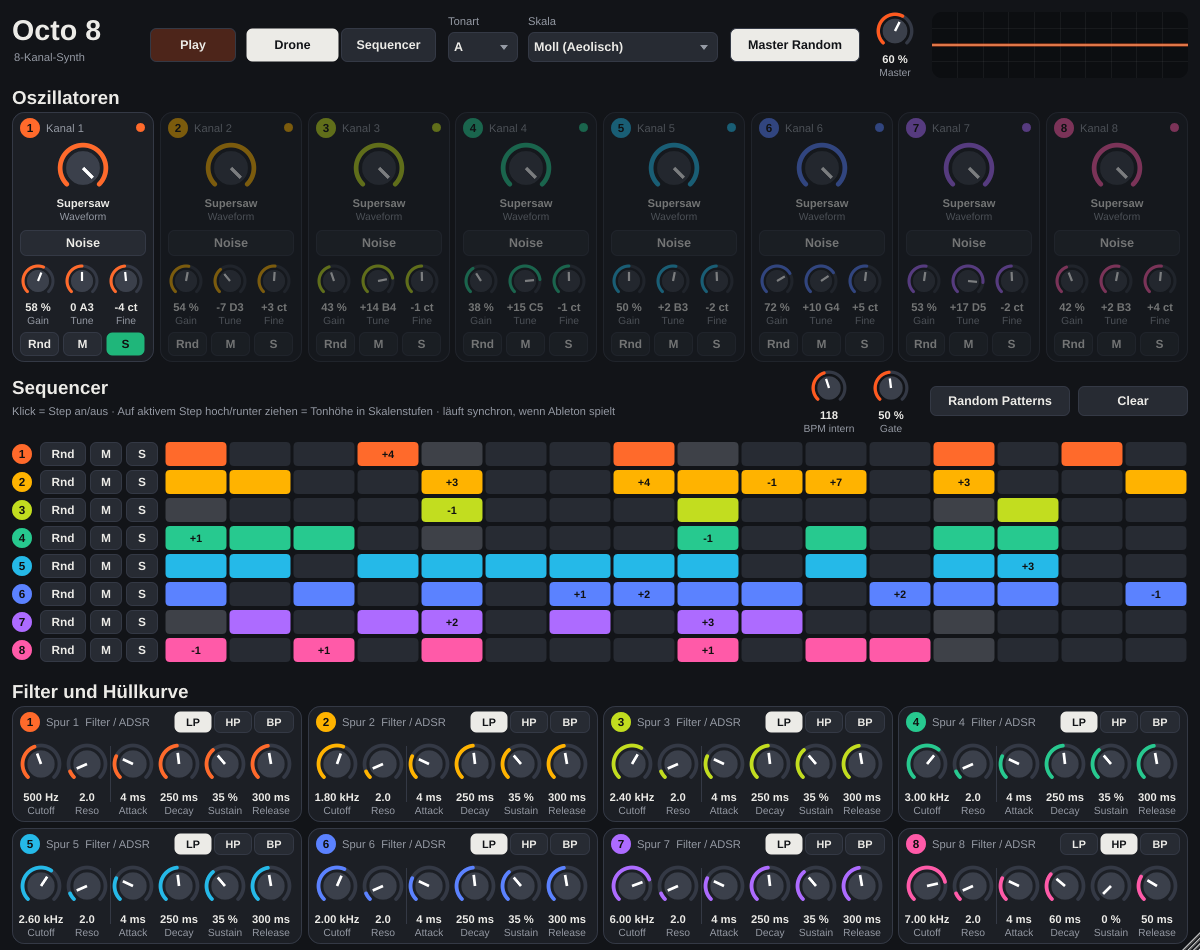
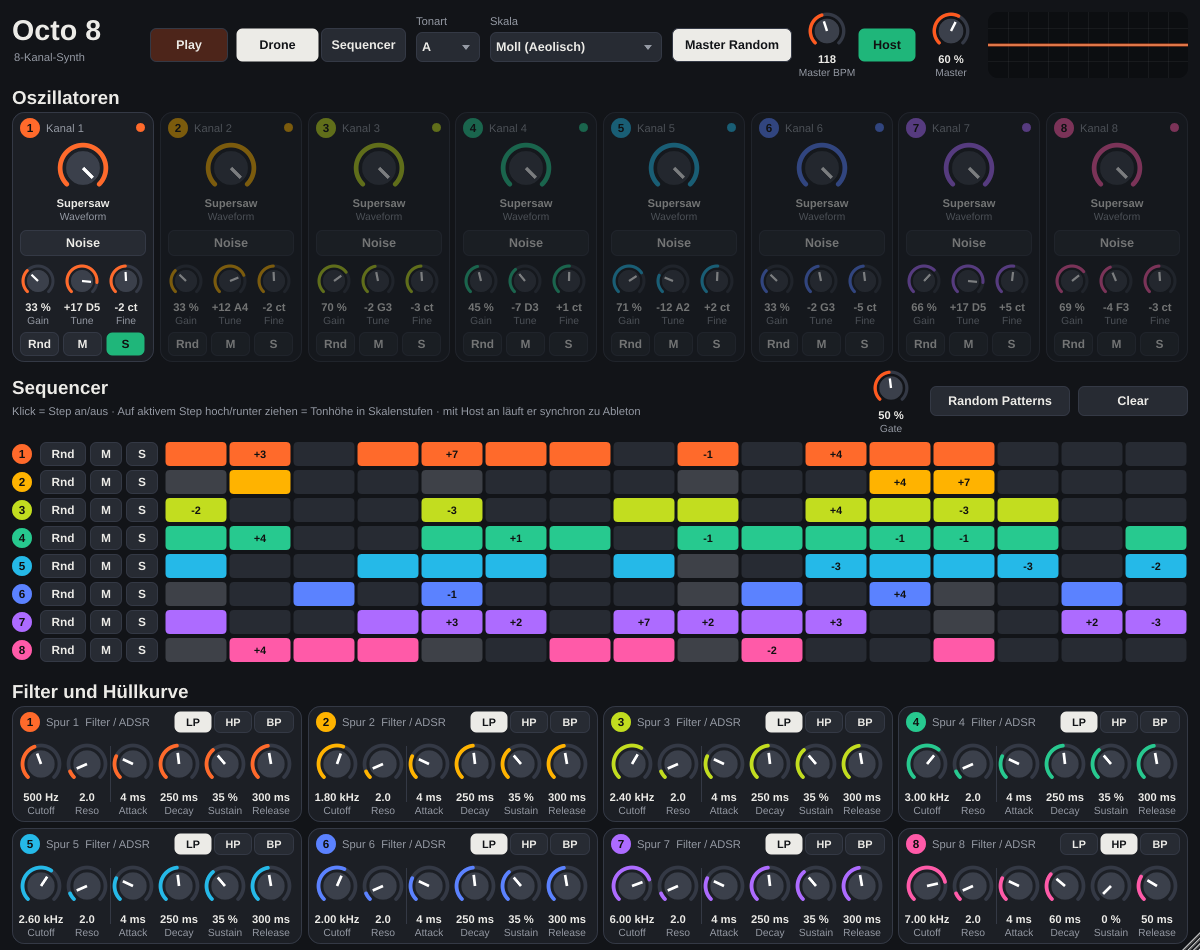
Octo8: Master BPM in top bar and Host sync button
- New "hostsync" parameter (default on): tempo and transport follow the DAW;
  off = internal Master BPM with the Play button
- Master BPM knob moved next to Master volume, shows host tempo while synced

Claude-Session: https://claude.ai/code/session_01QvYCYJsQt9R3oLBXYfwAHN

diff --git a/Octo8/Source/PluginEditor.cpp b/Octo8/Source/PluginEditor.cpp
@@ -118,7 +118,9 @@ void Knob::paint (Graphics& g)
     auto t = r.removeFromBottom (labelH);
     g.setColour (colours::ink);
     g.setFont (uiFont (12.5f, true));
-    g.drawFittedText (slider.getTextFromValue (slider.getValue()), t.removeFromTop (15), Justification::centred, 1, 0.8f);
+    String v = valueOverride ? valueOverride() : String();
+    if (v.isEmpty()) v = slider.getTextFromValue (slider.getValue());
+    g.drawFittedText (v, t.removeFromTop (15), Justification::centred, 1, 0.8f);
     g.setColour (colours::mute);
     g.setFont (uiFont (11.5f));
     g.drawFittedText (name, t, Justification::centredTop, 1, 0.8f);
@@ -392,8 +394,8 @@ void Octo8Editor::Content::paint (Graphics& g)
     g.setColour (colours::mute);
     g.setFont (uiFont (12.5f));
     g.drawText ("8-Kanal-Synth", 14, 48, 140, 18, Justification::centredLeft);
-    g.drawText ("Tonart", 448, 12, 70, 18, Justification::centredLeft);
-    g.drawText ("Skala", 528, 12, 100, 18, Justification::centredLeft);
+    g.drawText ("Tonart", 416, 12, 70, 18, Justification::centredLeft);
+    g.drawText ("Skala", 490, 12, 100, 18, Justification::centredLeft);
 
     g.setColour (colours::ink);
     g.setFont (uiFont (21.0f, true));
@@ -404,7 +406,7 @@ void Octo8Editor::Content::paint (Graphics& g)
     g.setColour (colours::mute);
     g.setFont (uiFont (12.5f));
     g.drawText (String::fromUTF8 ("Klick = Step an/aus \xc2\xb7 Auf aktivem Step hoch/runter ziehen = Tonh\xc3\xb6he in Skalenstufen \xc2\xb7 "
-                                  "l\xc3\xa4uft synchron, wenn Ableton spielt"),
+                                  "mit Host an l\xc3\xa4uft er synchron zu Ableton"),
                 12, 402, 760, 18, Justification::centredLeft);
 
     for (int i = 0; i < NCH; ++i)
@@ -430,7 +432,7 @@ Octo8Editor::Octo8Editor (Octo8Processor& p)
     playBtn.setColour (TextButton::buttonOnColourId, colours::accent);
     playBtn.setColour (TextButton::buttonColourId, colours::accent.withAlpha (0.25f));
     playBtn.setColour (TextButton::textColourOnId, Colours::white);
-    playBtn.setTooltip ("Interner Start; spielt Ableton, folgt der Sequencer automatisch dem Host");
+    playBtn.setTooltip ("Startet Octo8 ohne Ableton-Transport");
     aPlay = std::make_unique<AudioProcessorValueTreeState::ButtonAttachment> (p.apvts, "play", playBtn);
     playBtn.onStateChange = [this] { playBtn.setButtonText (playBtn.getToggleState() ? "Stop" : "Play"); };
 
@@ -455,11 +457,21 @@ Octo8Editor::Octo8Editor (Octo8Processor& p)
     for (int i = 0; i < NCH; ++i) content.addAndMakeVisible (strips.add (new Strip (p, i)));
 
     // ---- sequencer
-    bpm = std::make_unique<Knob> (p.apvts, "bpm", "BPM intern", colours::accent, 26);
+    bpm = std::make_unique<Knob> (p.apvts, "bpm", "Master BPM", colours::accent, 26);
+    bpm->valueOverride = [this]
+    {
+        if (proc.param ("hostsync") > 0.5f && proc.hostBpmKnown.load())
+            return String (proc.hostBpm.load(), 1);
+        return String();
+    };
+    hostBtn.setClickingTogglesState (true);
+    hostBtn.setColour (TextButton::buttonOnColourId, colours::soloOn);
+    hostBtn.setTooltip ("Host-Sync: Tempo und Start/Stop kommen von Ableton");
+    aHost = std::make_unique<AudioProcessorValueTreeState::ButtonAttachment> (p.apvts, "hostsync", hostBtn);
     gate = std::make_unique<Knob> (p.apvts, "gate", "Gate", colours::accent, 26);
     seqRnd.onClick = [this] { proc.randomAllTracks(); grid.repaint(); };
     clearBtn.onClick = [this] { proc.clearAll(); grid.repaint(); };
-    for (auto* c : std::initializer_list<Component*> { bpm.get(), gate.get(), &seqRnd, &clearBtn, &grid })
+    for (auto* c : std::initializer_list<Component*> { bpm.get(), &hostBtn, gate.get(), &seqRnd, &clearBtn, &grid })
         content.addAndMakeVisible (c);
 
     for (int i = 0; i < NCH; ++i)
@@ -481,19 +493,20 @@ Octo8Editor::Octo8Editor (Octo8Processor& p)
     for (int i = 0; i < NCH; ++i) content.addAndMakeVisible (cards.add (new FilterCard (p, i)));
 
     // ---- layout in design coordinates
-    playBtn.setBounds (150, 28, 86, 34);
-    modeBtns->setBounds (246, 28, 190, 34);
-    keyBox.setBounds (448, 32, 70, 30);
-    scaleBox.setBounds (528, 32, 190, 30);
-    masterRnd.setBounds (730, 28, 130, 34);
-    master->setBounds (866, 10, 58, 68);
-    scope.setBounds (932, 12, 256, 66);
+    playBtn.setBounds (150, 28, 78, 34);
+    modeBtns->setBounds (236, 28, 170, 34);
+    keyBox.setBounds (416, 32, 64, 30);
+    scaleBox.setBounds (490, 32, 172, 30);
+    masterRnd.setBounds (672, 28, 120, 34);
+    bpm->setBounds (798, 10, 58, 68);
+    hostBtn.setBounds (858, 28, 58, 34);
+    master->setBounds (922, 10, 58, 68);
+    scope.setBounds (988, 12, 200, 66);
 
     const float sw = (1176.0f - 7 * 6.0f) / NCH;
     for (int i = 0; i < NCH; ++i)
         strips[i]->setBounds (roundToInt (12 + i * (sw + 6)), L::stripY, roundToInt (sw), L::stripH);
 
-    bpm->setBounds (800, 368, 58, 66);
     gate->setBounds (862, 368, 58, 66);
     seqRnd.setBounds (930, 386, 140, 30);
     clearBtn.setBounds (1078, 386, 110, 30);
@@ -536,12 +549,18 @@ void Octo8Editor::timerCallback()
     const bool seq = proc.param ("mode") > 0.5f;
     auto u = [] (const char* t) { return String::fromUTF8 (t); };
     String st;
+    const bool sync = proc.param ("hostsync") > 0.5f;
+    const String tempo = (sync && proc.hostBpmKnown.load()) ? String (proc.hostBpm.load(), 1) : String ((int) proc.param ("bpm"));
     if (proc.hostPlaying.load())
-        st = u (seq ? "Host-Sync \xc2\xb7 " : "Drone \xc2\xb7 Host \xc2\xb7 ") + String (proc.hostBpm.load(), 1) + " BPM";
+        st = u (seq ? "Host-Sync \xc2\xb7 " : "Drone \xc2\xb7 Host \xc2\xb7 ") + tempo + " BPM";
     else if (proc.param ("play") > 0.5f)
-        st = seq ? u ("Sequencer \xc2\xb7 ") + String ((int) proc.param ("bpm")) + " BPM" : u ("Drone l\xc3\xa4uft");
+        st = seq ? u ("Sequencer \xc2\xb7 ") + tempo + " BPM" : u ("Drone l\xc3\xa4uft");
     else
-        st = seq ? u ("Bereit (Play oder Ableton starten)") : u ("Drone: Play oder MIDI-Note");
+        st = seq ? (sync ? u ("Bereit \xc2\xb7 wartet auf Ableton oder Play") : u ("Bereit \xc2\xb7 Play dr\xc3\xbccken"))
+                 : u ("Drone: Play oder MIDI-Note");
+    bpm->slider.setEnabled (! (sync && proc.hostBpmKnown.load()));
+    bpm->setAlpha (bpm->slider.isEnabled() ? 1.0f : 0.6f);
+    bpm->repaint();
     scope.status = st;
     scope.repaint();
     grid.repaint();

diff --git a/Octo8/Source/PluginProcessor.cpp b/Octo8/Source/PluginProcessor.cpp
@@ -122,6 +122,7 @@ Octo8Processor::Octo8Processor()
     pMode = apvts.getRawParameterValue ("mode");
     pPlay = apvts.getRawParameterValue ("play");
     pBpm = apvts.getRawParameterValue ("bpm");
+    pHost = apvts.getRawParameterValue ("hostsync");
     pGate = apvts.getRawParameterValue ("gate");
     pMaster = apvts.getRawParameterValue ("master");
     for (int i = 0; i < NCH; ++i)
@@ -150,7 +151,8 @@ AudioProcessorValueTreeState::ParameterLayout Octo8Processor::createLayout()
     L.add (std::make_unique<AudioParameterChoice> (ParameterID { "scale", 1 }, "Skala", scl, 0));
     L.add (std::make_unique<AudioParameterChoice> (ParameterID { "mode", 1 }, "Modus", StringArray { "Drone", "Sequencer" }, 1));
     L.add (std::make_unique<AudioParameterBool> (ParameterID { "play", 1 }, "Play (intern)", false));
-    L.add (std::make_unique<AudioParameterInt> (ParameterID { "bpm", 1 }, "BPM (intern)", 40, 220, 118));
+    L.add (std::make_unique<AudioParameterInt> (ParameterID { "bpm", 1 }, "Master BPM", 40, 220, 118));
+    L.add (std::make_unique<AudioParameterBool> (ParameterID { "hostsync", 1 }, "Host Sync", true));
     L.add (std::make_unique<AudioParameterFloat> (ParameterID { "gate", 1 }, "Gate", NormalisableRange<float> (0.05f, 1.0f, 0.01f), 0.5f,
                                                   AudioParameterFloatAttributes().withStringFromValueFunction (pct)));
     L.add (std::make_unique<AudioParameterFloat> (ParameterID { "master", 1 }, "Master", NormalisableRange<float> (0.0f, 1.0f, 0.01f), 0.6f,
@@ -434,16 +436,17 @@ void Octo8Processor::processBlock (AudioBuffer<float>& buffer, MidiBuffer& midi)
         else if (m.isAllNotesOff() || m.isAllSoundOff()) held = 0;
     }
 
-    bool hp = false;
+    bool hp = false, known = false;
+    const bool hostSync = pHost->load() > 0.5f;
     double bpm = pBpm->load(), hostPpq = 0;
     if (auto* ph = getPlayHead())
         if (auto pos = ph->getPosition())
         {
-            hp = pos->getIsPlaying();
-            if (auto b = pos->getBpm()) bpm = hp ? *b : bpm;
-            if (auto b = pos->getBpm()) hostBpm = (float) *b;
+            if (auto b = pos->getBpm()) { hostBpm = (float) *b; known = true; if (hostSync) bpm = *b; }
+            hp = hostSync && pos->getIsPlaying();
             if (auto p = pos->getPpqPosition()) hostPpq = *p; else hp = false;
         }
+    hostBpmKnown = known;
     hostPlaying = hp;
 
     const int key = (int) pKey->load();

diff --git a/Octo8/Source/PluginEditor.h b/Octo8/Source/PluginEditor.h
@@ -23,6 +23,7 @@ public:
     void resized() override;
     void paint (juce::Graphics&) override;
     juce::Slider slider;
+    std::function<juce::String()> valueOverride; // non-empty result replaces the value text
 
 private:
     juce::String name;
@@ -122,11 +123,11 @@ private:
         void paint (juce::Graphics&) override;
     } content;
 
-    juce::TextButton playBtn { "Play" }, masterRnd { "Master Random" }, seqRnd { "Random Patterns" }, clearBtn { "Clear" };
+    juce::TextButton playBtn { "Play" }, hostBtn { "Host" }, masterRnd { "Master Random" }, seqRnd { "Random Patterns" }, clearBtn { "Clear" };
     std::unique_ptr<ChoiceButtons> modeBtns;
     juce::ComboBox keyBox, scaleBox;
     std::unique_ptr<juce::AudioProcessorValueTreeState::ComboBoxAttachment> aKey, aScale;
-    std::unique_ptr<juce::AudioProcessorValueTreeState::ButtonAttachment> aPlay;
+    std::unique_ptr<juce::AudioProcessorValueTreeState::ButtonAttachment> aPlay, aHost;
     std::unique_ptr<Knob> master, bpm, gate;
     Scope scope;
     juce::OwnedArray<Strip> strips;

diff --git a/Octo8/Source/PluginProcessor.h b/Octo8/Source/PluginProcessor.h
@@ -75,6 +75,7 @@ public:
     std::atomic<int> hitCount[octo::NCH];
     std::atomic<bool> hostPlaying { false };
     std::atomic<float> hostBpm { 120.0f };
+    std::atomic<bool> hostBpmKnown { false };
 
     static constexpr int SCOPE = 4096;
     std::array<float, SCOPE> scope {};
@@ -114,7 +115,7 @@ private:
     {
         std::atomic<float> *wave, *noise, *nt, *gain, *tune, *fine, *mute, *solo, *ft, *cut, *q, *a, *d, *s, *r, *smute, *ssolo;
     } cp[octo::NCH];
-    std::atomic<float> *pKey, *pScale, *pMode, *pPlay, *pBpm, *pGate, *pMaster;
+    std::atomic<float> *pKey, *pScale, *pMode, *pPlay, *pBpm, *pHost, *pGate, *pMaster;
 
     WaveBank bank;
     std::vector<float> noiseBuf[octo::NNOISE];

diff --git a/Octo8/README.md b/Octo8/README.md
@@ -10,7 +10,7 @@
 - Je Kanal **Gain, Tune (±24 HT mit Notenanzeige), Finetune (±100 ct), Random, Mute, Solo**
 - **Tonart + Skala** (18 Skalen); **Master Random** und Kanal-Random würfeln nur Töne aus der Skala, Tonartwechsel quantisiert automatisch
 - **16-Step-Sequencer** für alle 8 Spuren mit Random/Mute/Solo je Spur, Tonhöhe pro Step in Skalenstufen (auf Step ziehen), Gate-Länge
-- **Synchron zu Ableton**: spielt der Host, folgt der Sequencer Tempo und Position; sonst intern mit eigenem BPM
+- **Master BPM + Host-Button**: Host an = Tempo und Start/Stop kommen von Ableton (BPM-Regler zeigt das Host-Tempo); Host aus = eigenes Master-BPM, Start mit Play
 - **Drone-Modus**: alle Kanäle klingen dauerhaft (Play, Host-Transport oder gehaltene MIDI-Note)
 - MIDI-Noten transponieren alles relativ zu C3
 - Je Spur **Filter (LP/HP/BP, Cutoff, Resonanz)** und **ADSR-Hüllkurve**
